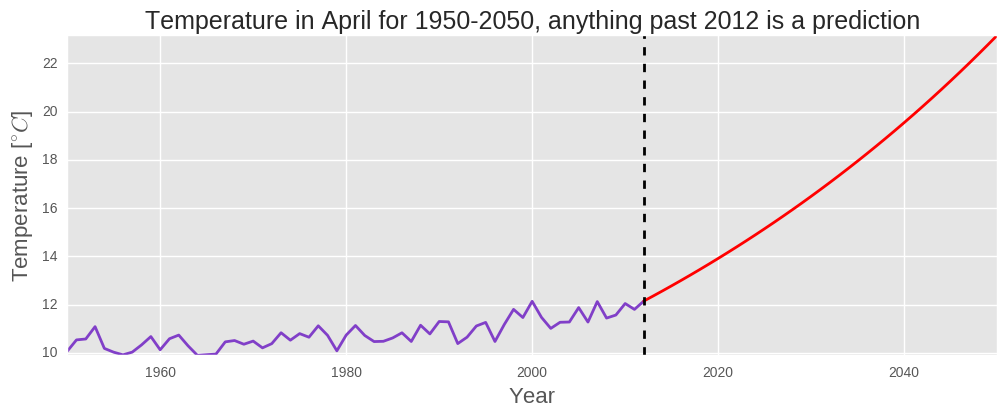
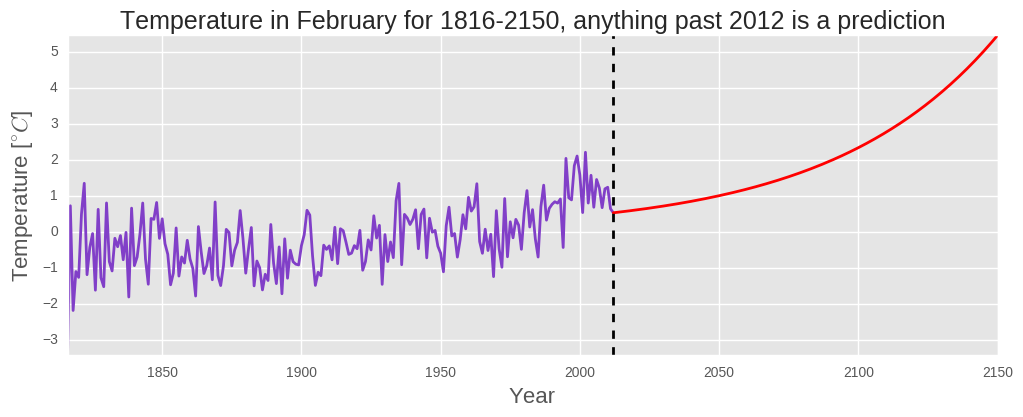
Generated new standard plots and updated README.txt

diff --git a/assignment6/temperature_CO2_plotter.py b/assignment6/temperature_CO2_plotter.py
@@ -175,6 +175,6 @@ if (__name__ == "__main__"):
     climate.plot_temperature("January", 1816, 2012, -5.4, 1.0)
     climate.plot_CO2(1751, 2012, 0, 10000)
     climate.plot_CO2_by_country(2010, 10.0, 30.0)
-    climate.plot_future("March", 1816, 2050)
+    climate.plot_future("February", 1816, 2150)
     plt.show()
 
